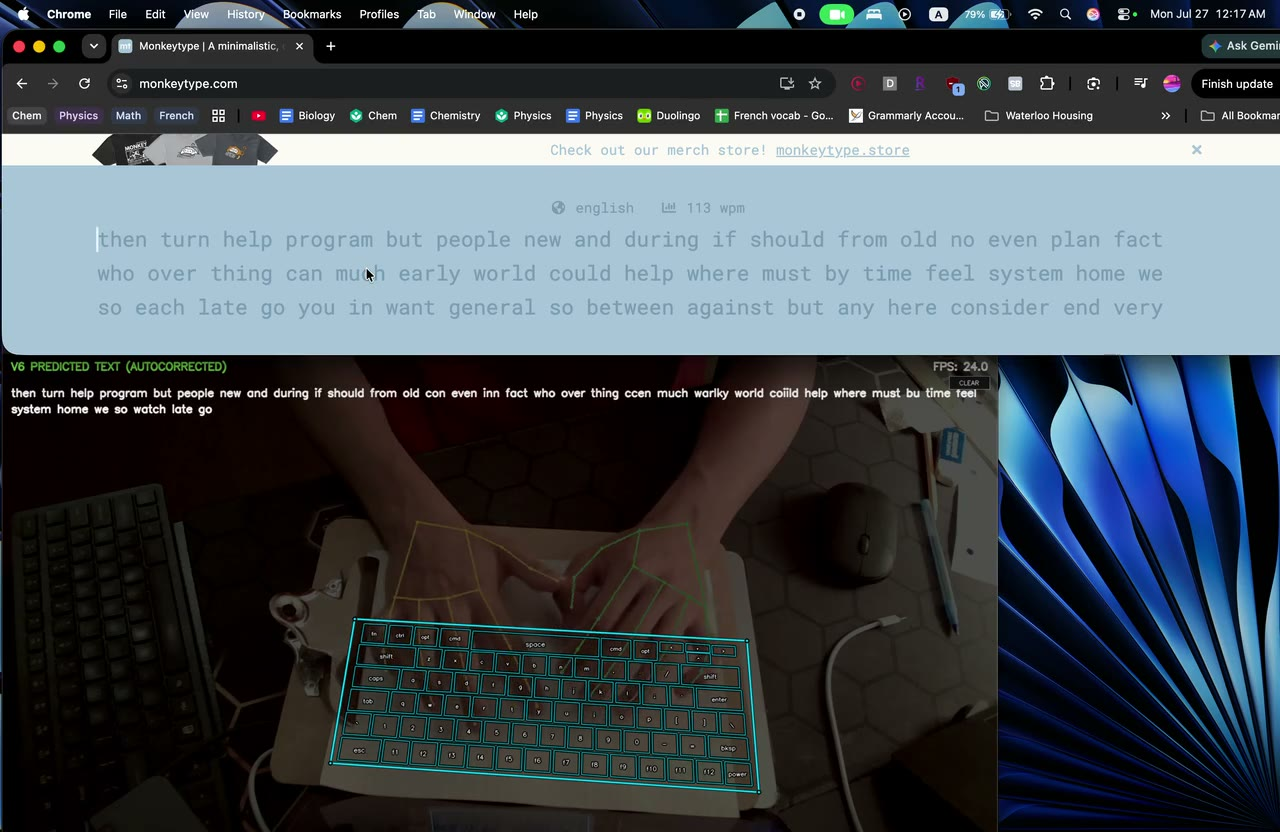
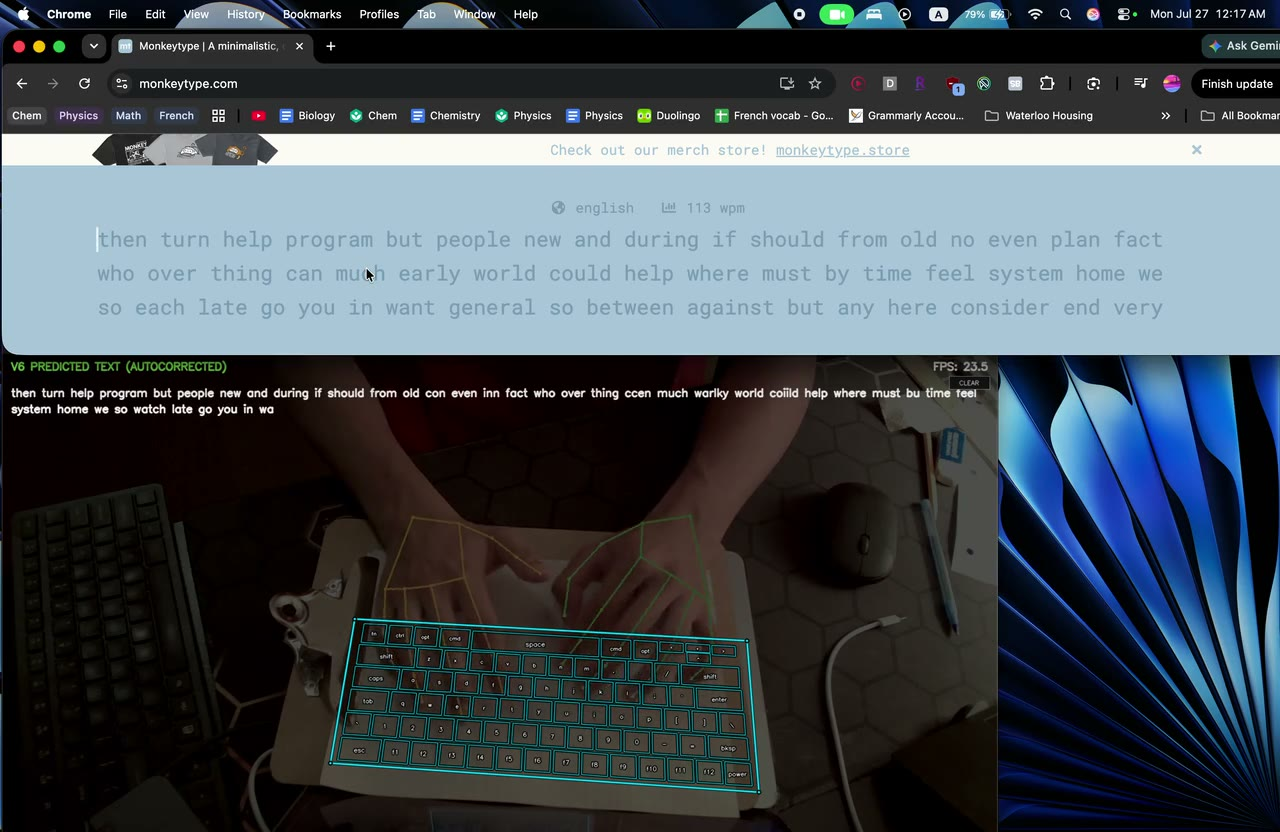
Start keyboard entrance at 44 seconds and play at 1.65x

diff --git a/src/components/KeyboardVideoIntro.tsx b/src/components/KeyboardVideoIntro.tsx
@@ -8,9 +8,9 @@ const KEYBOARD_CLIP: TourDemoSource = {
   src: "/invisible-keyboard-demo.mp4",
   poster: "/invisible-keyboard-intro-poster.jpg",
   title: "Invisible Keyboard",
-  start: 42,
+  start: 44,
   end: 63,
-  playbackRate: 1.5,
+  playbackRate: 1.65,
 };
 
 export function KeyboardVideoIntro({ onComplete }: { onComplete: () => void }) {

diff --git a/README.md b/README.md
@@ -120,8 +120,8 @@ and browser-specific verification limits.
 
 ## Production build
 
-`/keyboard` opens a muted, full-viewport Invisible Keyboard clip from 0:42 to
-1:03 at the tour's 1.5× speed. It then uses the tour's zoom-out animation to reveal the
+`/keyboard` opens a muted, full-viewport Invisible Keyboard clip from 0:44 to
+1:03 at 1.65× speed. It then uses the tour's zoom-out animation to reveal the
 Projects page at `/projects` and stops. Escape skips the clip; reduced motion
 returns directly without the zoom. Both routes have static entry documents for
 direct visits and refreshes on GitHub Pages.
